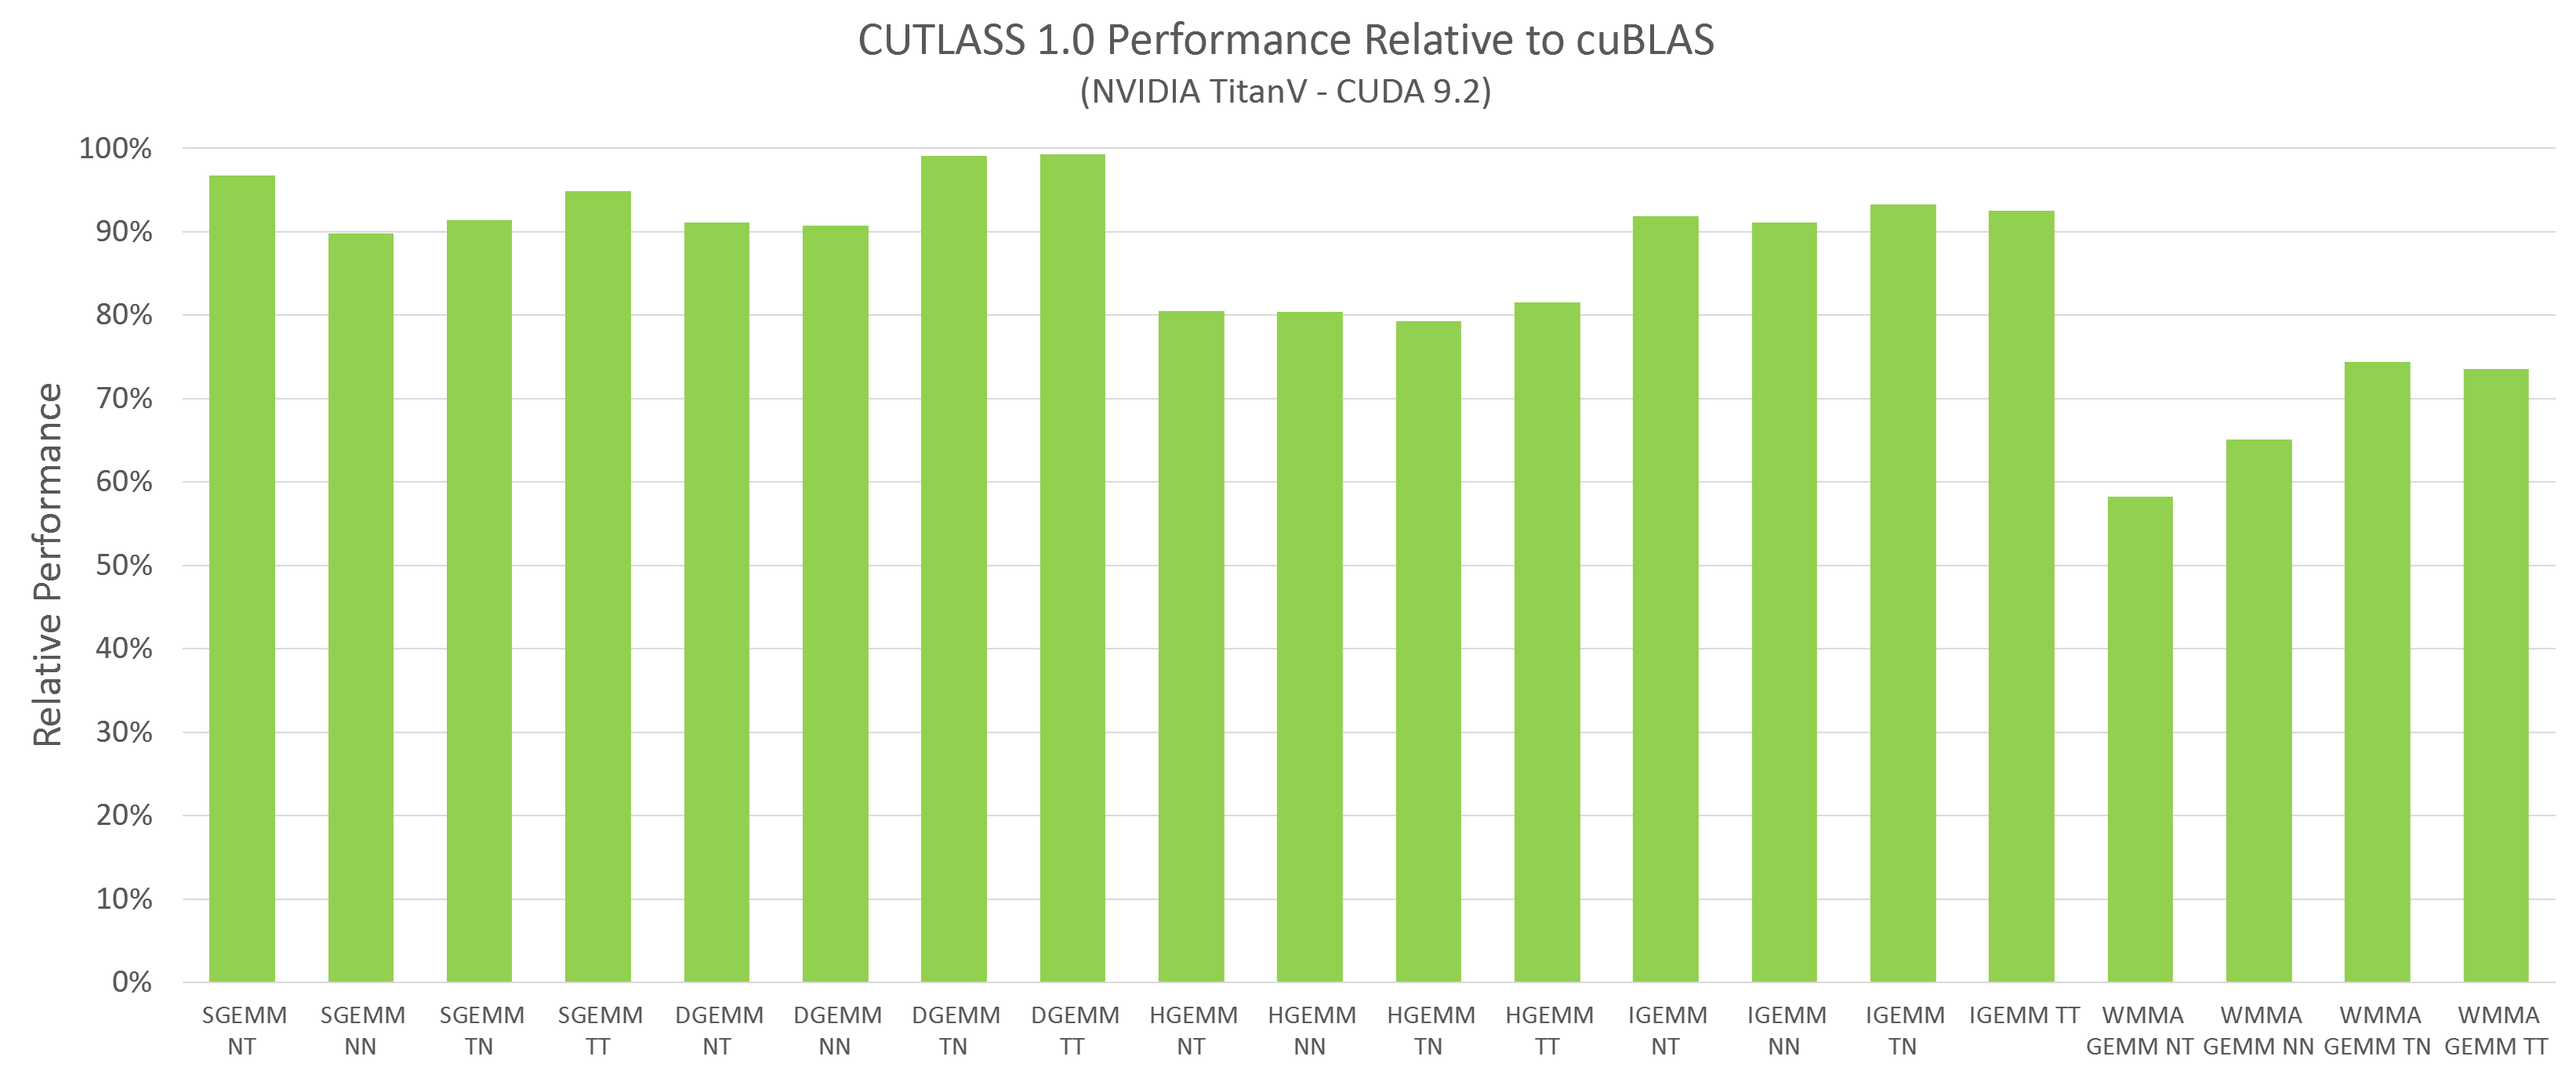
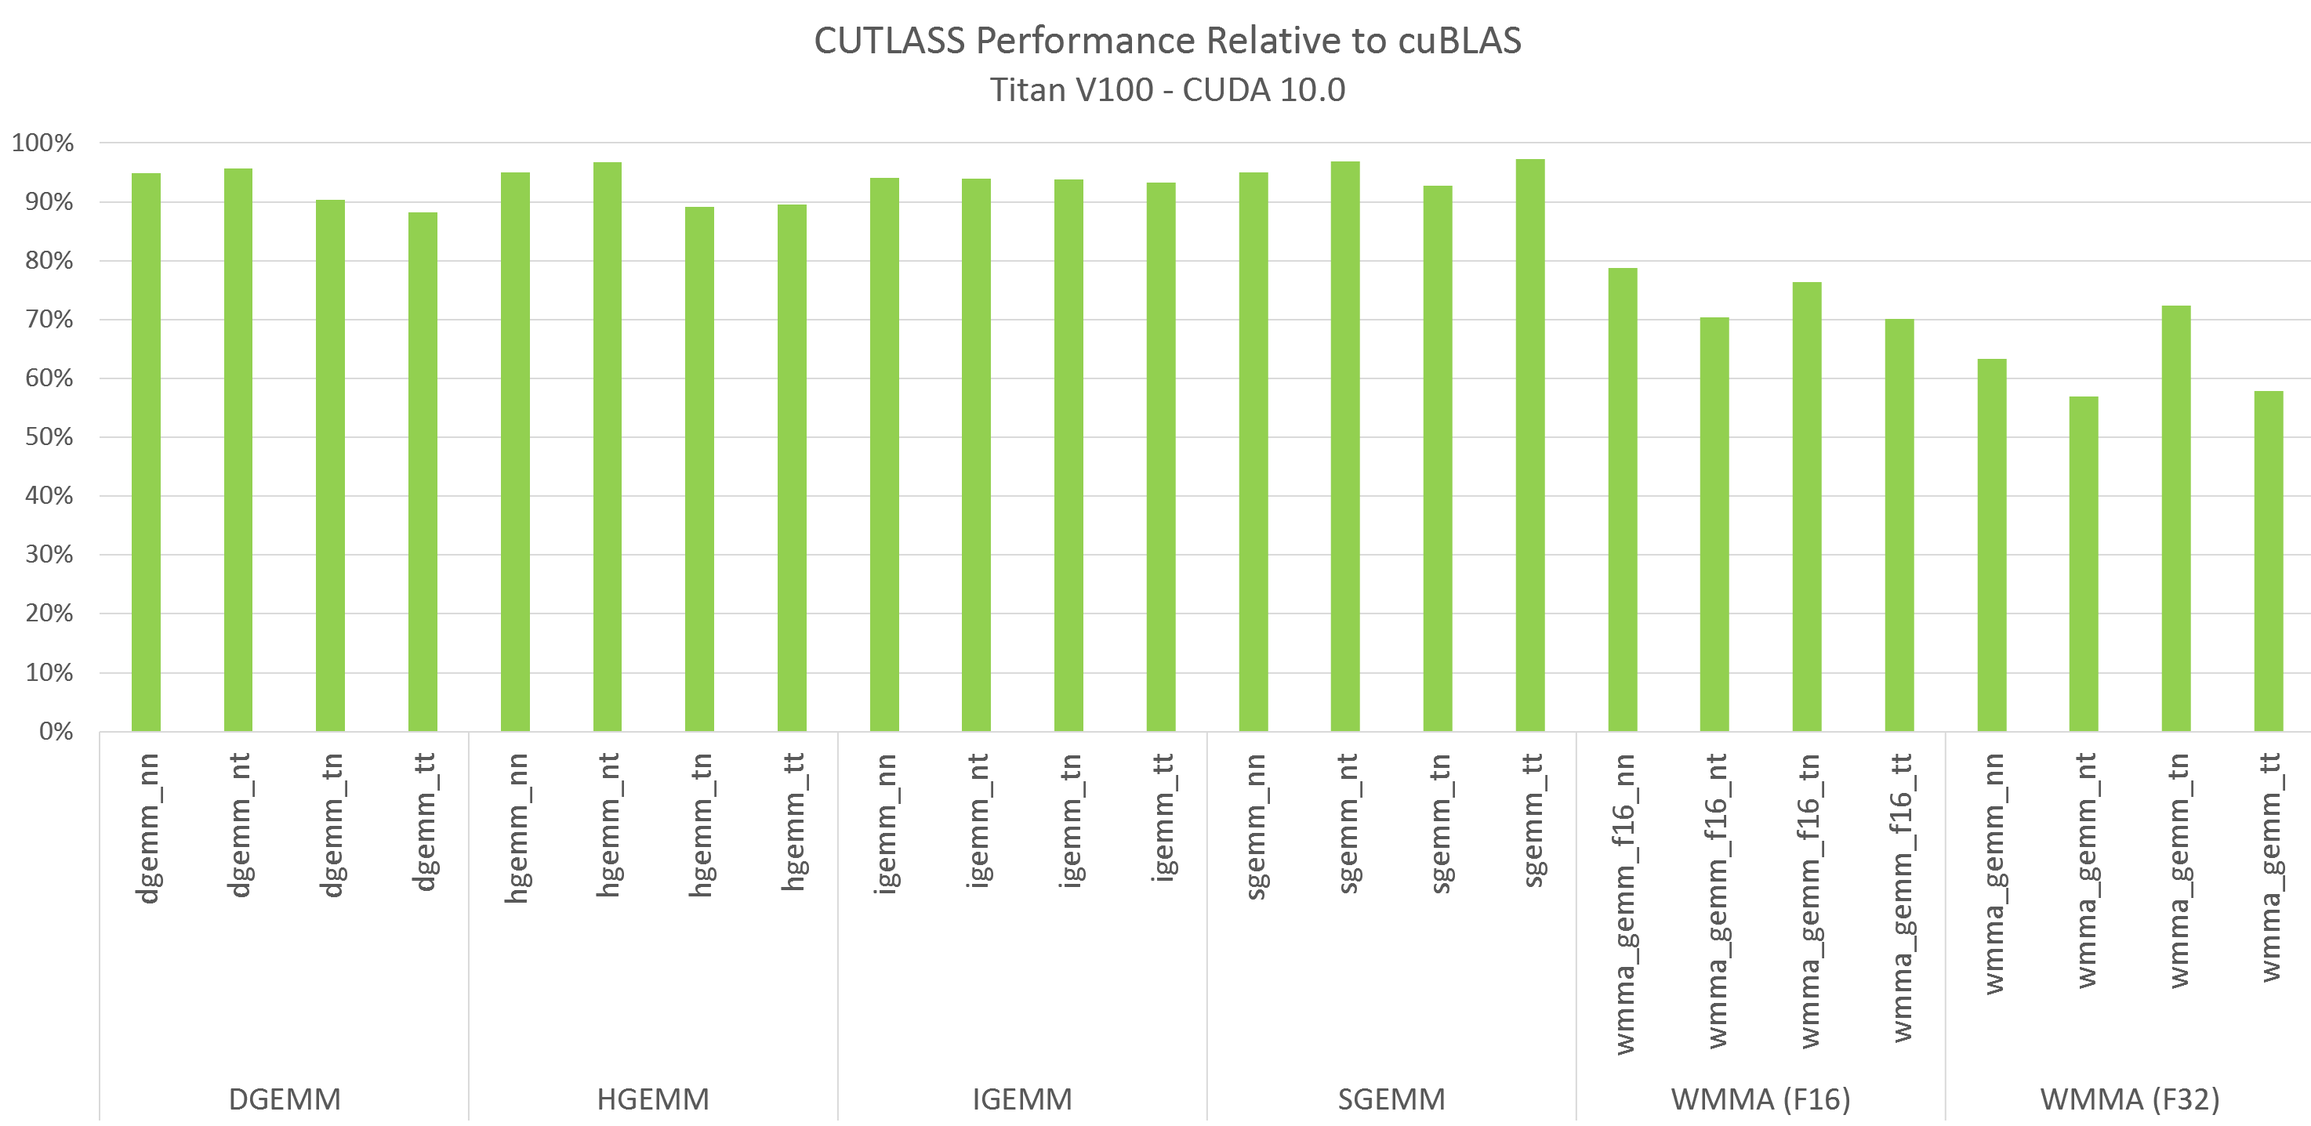
Updated README and CHANGELOG.

diff --git a/cutlass/cutlass.h b/cutlass/cutlass.h
@@ -32,8 +32,8 @@
 ////////////////////////////////////////////////////////////////////////////////////////////////////
 
 #define CUTLASS_MAJOR 1
-#define CUTLASS_MINOR 0
-#define CUTLASS_PATCH 1
+#define CUTLASS_MINOR 1
+#define CUTLASS_PATCH 0
 #define CUTLASS_VERSION ((CUTLASS_MAJOR)*100 + (CUTLASS_MINOR)*10 + CUTLASS_PATCH)
 
 #ifdef __NVCC__

diff --git a/README.md b/README.md
@@ -33,7 +33,7 @@ We describe the structure of an efficient GEMM in our talk at the
 * [Examples](examples/)
   * Basic GEMM, tensor views, CUTLASS utilities, batched GEMM, WMMA GEMM
 * Turing Features
-  * [WMMA GEMM targeting TensorCores](tools/test/unit/gemm/wmma_integer_gemm.cu) - INT8, INT4, INT1
+  * [WMMA GEMM targeting TensorCores](tools/test/unit/gemm/wmma_integer_gemm.cu) - INT8, INT4, 1-bit
 * [Batched Strided GEMM](tools/test/unit/gemm/batched_strided_sgemm_128x128x8.cu)
 * [Threadblock rasterization strategies](tools/test/unit/gemm/sgemm_threadblock_swizzle_nt.cu)
   * Improved performance for adverse problem sizes and data layouts

diff --git a/CHANGELOG.md b/CHANGELOG.md
@@ -3,7 +3,7 @@
 
 ## 1.1.0 (2018-09-19)
   * Turing Features
-    * WMMA GEMM targeting TensorCores - INT8, INT4, INT1
+    * WMMA GEMM targeting TensorCores - INT8, INT4, 1-bit
   * Batched Strided GEMM
   * Threadblock rasterization strategies
     * Improved performance for adverse problem sizes and data layouts
